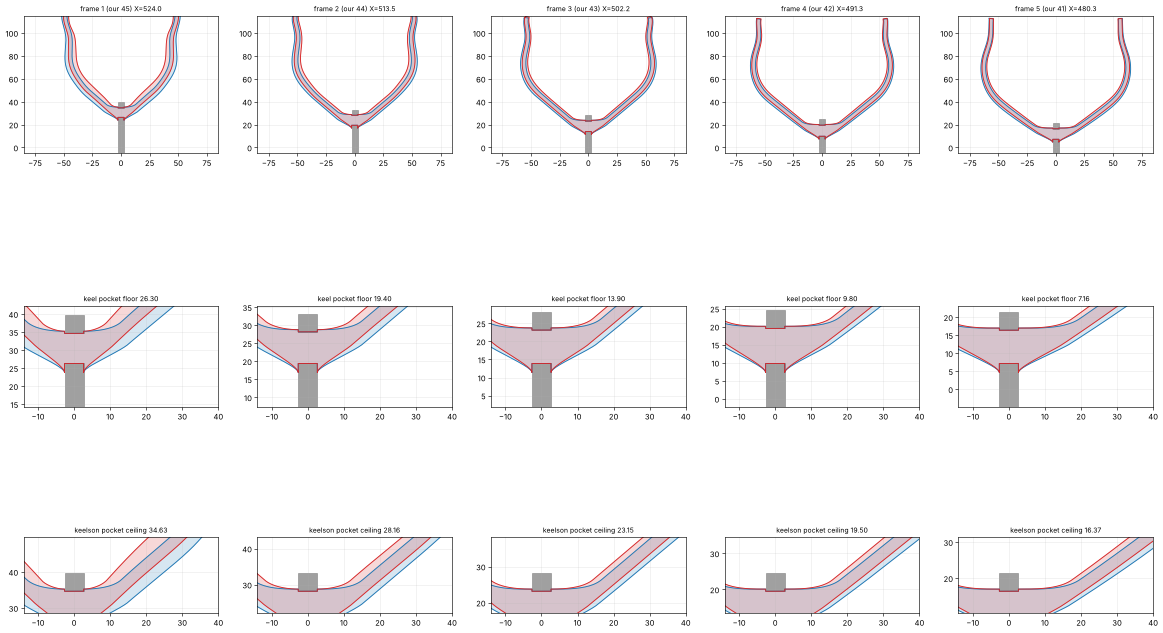
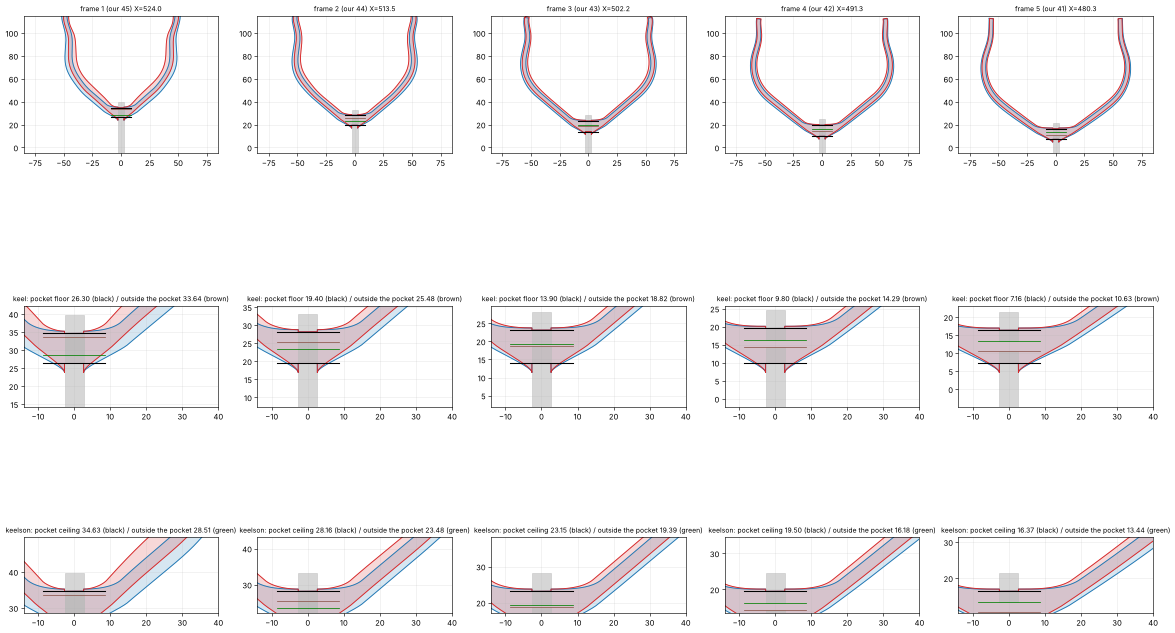
Frames 1-5: keel/keelson pocket and outside lines shown (two floors, two ceilings)
Claude-Session: https://claude.ai/code/session_017HV2YHL4JdRTKuYXk76aAy

diff --git a/royal_caroline/py/frames_on_pockets_2d.py b/royal_caroline/py/frames_on_pockets_2d.py
@@ -24,7 +24,11 @@ for j,b in enumerate(builder):
             blk,fa,fb,info=res[lay]
             for g in (unary_union([blk.buffer(0.02),F.mirror(blk).buffer(0.02)]).buffer(-0.02),):
                 for gg in (g.geoms if hasattr(g,'geoms') else [g]): a.fill(*gg.exterior.xy,color=col,alpha=.18); a.plot(*gg.exterior.xy,color=col,lw=1.2)
-        a.add_patch(plt.Rectangle((-F.KB,-20),2*F.KB,iA['keel_top']+20,color='#888',alpha=.8)); a.add_patch(plt.Rectangle((-F.KB,iA['ks_bot']),2*F.KB,iA['ks_top']-iA['ks_bot'],color='#888',alpha=.8))
+        kl=lambda x: float(np.interp(x,D['keel_line']['X'],D['keel_line']['Z'])); sl=lambda x: float(np.interp(x,D['keelson_line']['X'],D['keelson_line']['Z']))
+        k_out=max(kl(p['a']),kl(p['b'])); s_out=min(sl(p['a']),sl(p['b']))      # keel / keelson inner lines just outside the pocket (the walls)
+        a.add_patch(plt.Rectangle((-F.KB,-20),2*F.KB,k_out+20,color='#bbb',alpha=.6)); a.add_patch(plt.Rectangle((-F.KB,iA['keel_top']),2*F.KB,0.001,color='k'))
+        a.add_patch(plt.Rectangle((-F.KB,s_out),2*F.KB,iA['ks_top']-s_out,color='#bbb',alpha=.6))
+        for z,c,lw in ((iA['keel_top'],'k',1.4),(k_out,'tab:brown',1.0),(iA['ks_bot'],'k',1.4),(s_out,'g',1.0)): a.plot([-F.KB-6,F.KB+6],[z,z],color=c,lw=lw)
         a.set_aspect('equal'); a.set_xlim(*xl); a.set_ylim(*yl); a.grid(alpha=.25); a.set_title(title,fontsize=9)
-    draw(axs[0,j],(-85,85),(-5,115),'frame %d (our %d) X=%.1f'%(b,OUR,xc)); draw(axs[1,j],(-14,40),(iA['keel_top']-12,iA['keel_top']+16),'keel pocket floor %.2f'%iA['keel_top']); draw(axs[2,j],(-14,40),(iA['ks_bot']-6,iA['ks_top']+10),'keelson pocket ceiling %.2f'%iA['ks_bot'])
+    draw(axs[0,j],(-85,85),(-5,115),'frame %d (our %d) X=%.1f'%(b,OUR,xc)); draw(axs[1,j],(-14,40),(iA['keel_top']-12,iA['keel_top']+16),'keel: pocket floor %.2f (black) / outside the pocket %.2f (brown)'%(iA['keel_top'],max(float(np.interp(p['a'],D['keel_line']['X'],D['keel_line']['Z'])),float(np.interp(p['b'],D['keel_line']['X'],D['keel_line']['Z']))))); draw(axs[2,j],(-14,40),(iA['ks_bot']-6,iA['ks_top']+10),'keelson: pocket ceiling %.2f (black) / outside the pocket %.2f (green)'%(iA['ks_bot'],min(float(np.interp(p['a'],D['keelson_line']['X'],D['keelson_line']['Z'])),float(np.interp(p['b'],D['keelson_line']['X'],D['keelson_line']['Z'])))))
 tag='b%d-%d'%(min(builder),max(builder)); fig.savefig('qa/frames_pockets_%s.png'%tag,dpi=55,bbox_inches='tight'); json.dump(out,open('data/frames_pockets_%s.json'%tag,'w'))
